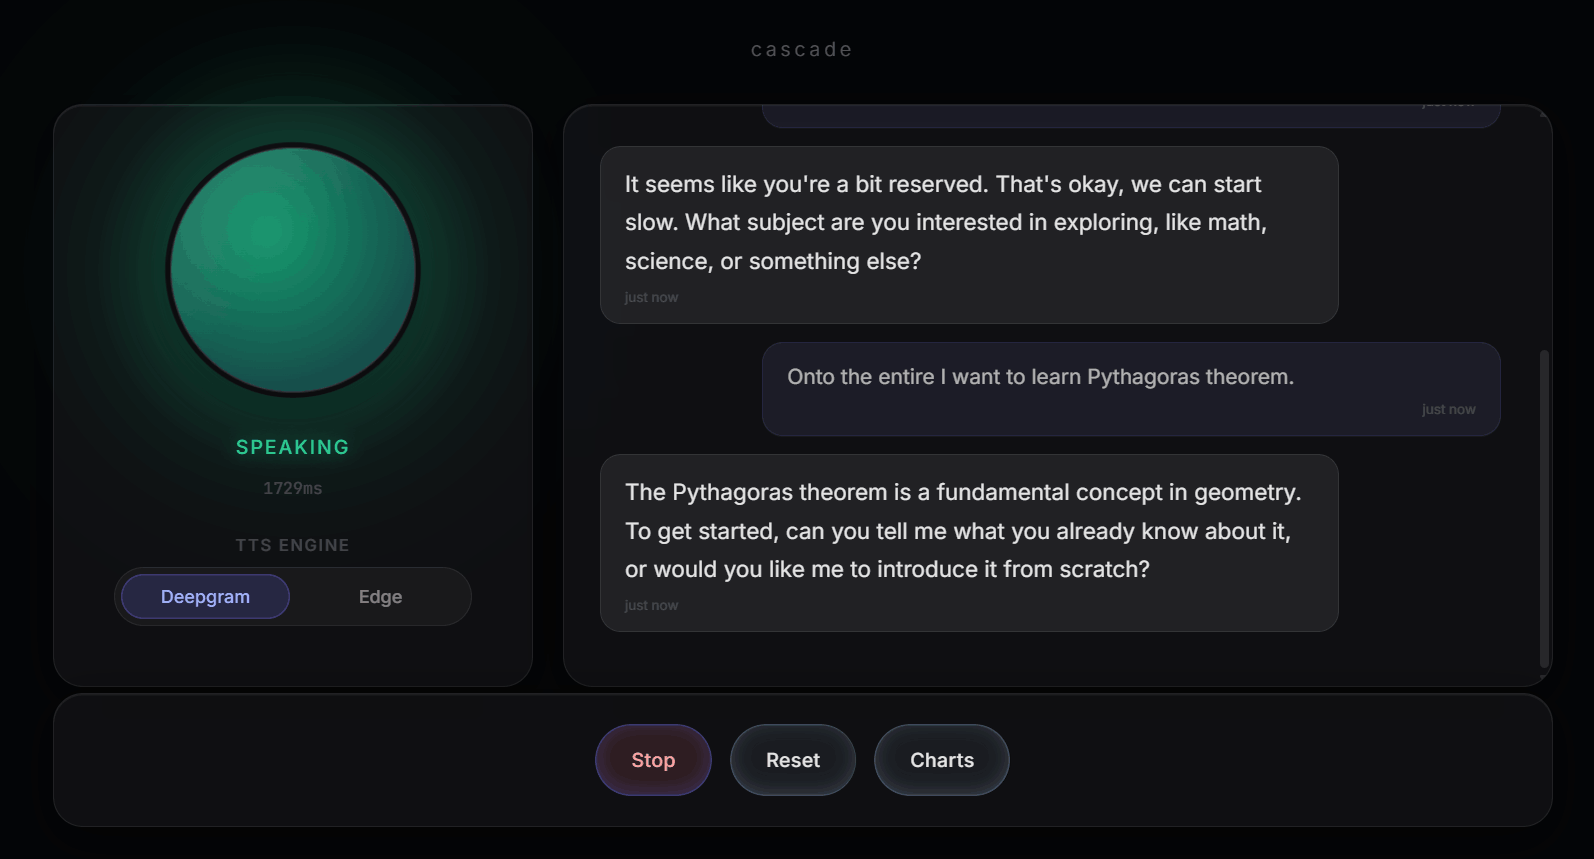
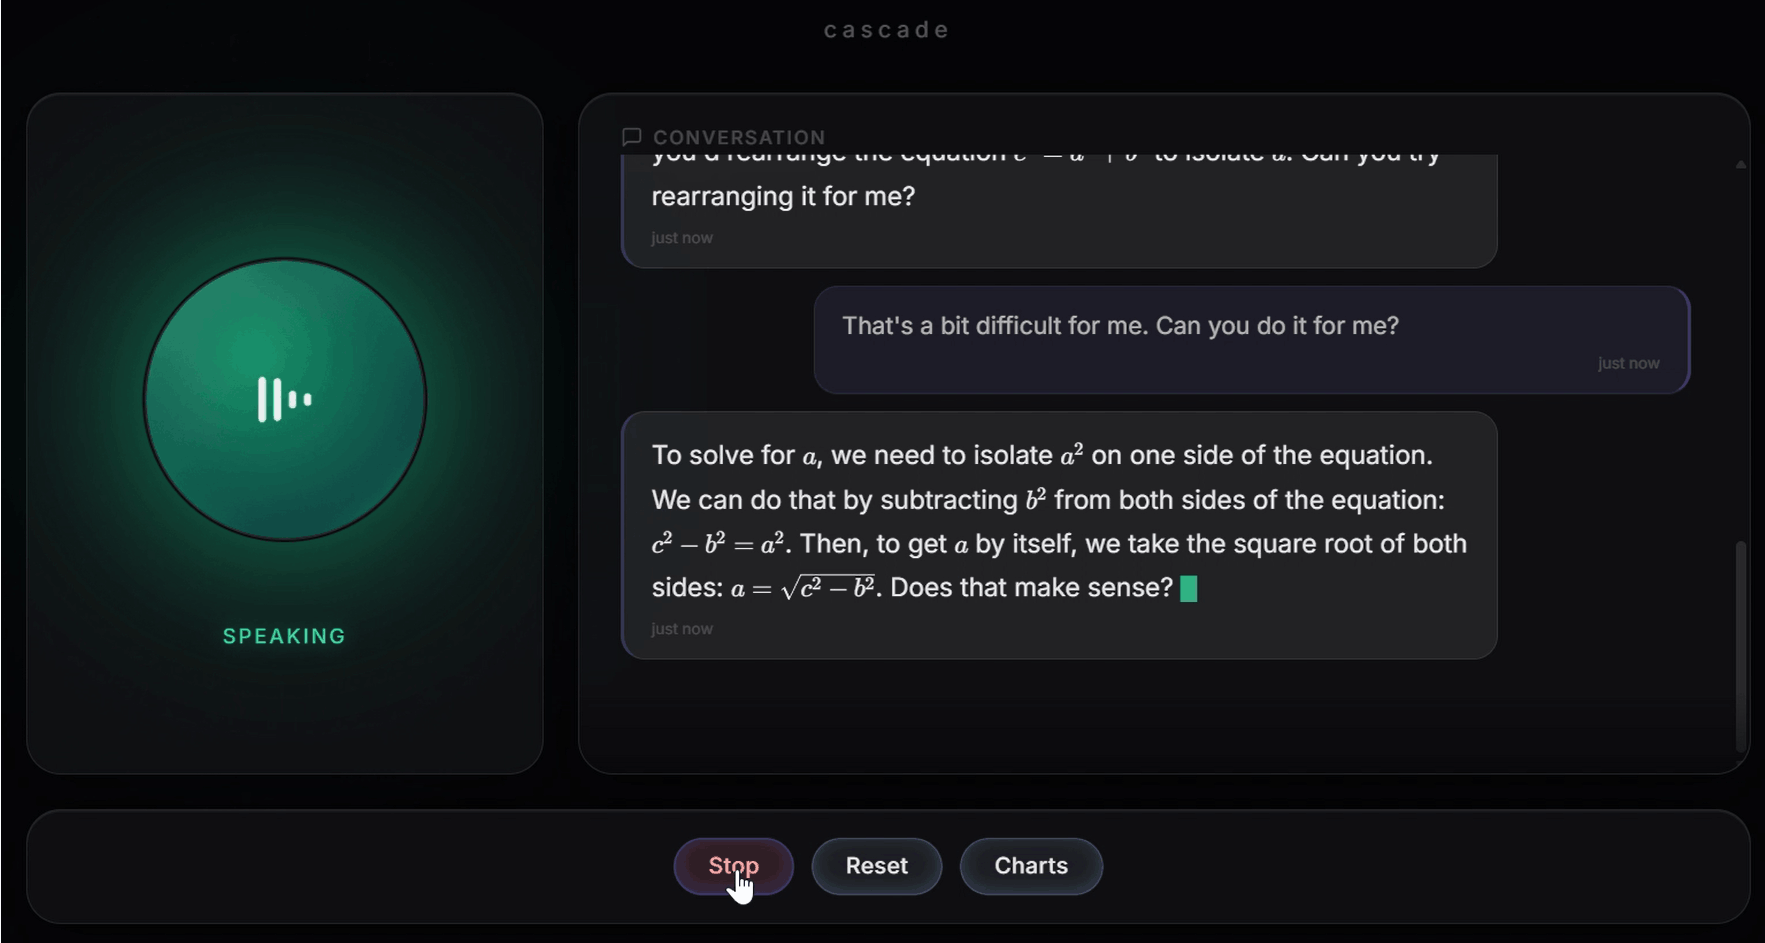
refactor(stt,frontend): optimize transcript stability and eliminate DOM thrashing
STT Backend:
- Refactor _compute_display_text() to track stability via Deepgram's raw 'words' array
- Match unpunctuated, lowercase strings for the prefix lock to prevent aggressive
  punctuation adjustments from shrinking the stable text segment

Frontend UI/UX:
- Replace full DOM bubble rewrites with persistent '.stable-text' and '.tentative' spans
- Update textContent directly on interim ticks to prevent unnecessary layout recalculations
- Add CSS transition properties to soften text state changes and mitigate visual flicker

diff --git a/frontend/app.js b/frontend/app.js
@@ -285,25 +285,35 @@ class CascadeClient {
   }
 
   _updateStudentTranscript(stableText, tentativeText = "", { final = false } = {}) {
-    let htmlContent = stableText;
-    if (tentativeText) {
-      htmlContent += (htmlContent ? " " : "") + `<span class="tentative">${tentativeText}</span>`;
-    }
-
     if (!this.currentStudentBubble) {
       this.currentStudentBubble = this.ui.addTranscriptItem("student", "");
-      const p = this.currentStudentBubble.querySelector("p");
-      if (p) p.innerHTML = htmlContent;
-      if (!final && this.currentStudentBubble)
-        this.currentStudentBubble.classList.add("streaming");
-    } else {
-      const p = this.currentStudentBubble.querySelector("p");
-      if (p) p.innerHTML = htmlContent;
-      if (final) {
-        this.currentStudentBubble.classList.remove("streaming");
-      } else {
-        this.currentStudentBubble.classList.add("streaming");
+    }
+    
+    const p = this.currentStudentBubble.querySelector("p");
+    if (p) {
+      let stableNode = p.querySelector(".stable-text");
+      let tentativeNode = p.querySelector(".tentative");
+
+      if (!stableNode) {
+        p.innerHTML = '<span class="stable-text"></span><span class="tentative"></span>';
+        stableNode = p.querySelector(".stable-text");
+        tentativeNode = p.querySelector(".tentative");
       }
+
+      if (stableNode.textContent !== stableText) {
+        stableNode.textContent = stableText;
+      }
+
+      const tentativeWithSpace = tentativeText ? (stableText ? " " : "") + tentativeText : "";
+      if (tentativeNode.textContent !== tentativeWithSpace) {
+        tentativeNode.textContent = tentativeWithSpace;
+      }
+    }
+
+    if (final && this.currentStudentBubble) {
+      this.currentStudentBubble.classList.remove("streaming");
+    } else if (this.currentStudentBubble) {
+      this.currentStudentBubble.classList.add("streaming");
     }
   }
 

diff --git a/frontend/style.css b/frontend/style.css
@@ -1081,6 +1081,7 @@ body {
 .message-user .tentative {
   color: rgba(255, 255, 255, 0.4);
   font-style: italic;
+  transition: color 0.15s ease, opacity 0.15s ease;
 }
 
 .message-user.streaming p::after {

diff --git a/backend/stt.py b/backend/stt.py
@@ -278,26 +278,38 @@ class STTHandler:
         except Exception as e:
             logger.debug(f"[STT] KeepAlive task error: {e}")
 
-    def _compute_display_text(self, transcript: str) -> tuple[str, str]:
-        words = transcript.split()
-        if not words:
+    def _compute_display_text(self, words_data: list[dict] | str) -> tuple[str, str]:
+        """Compute stable vs tentative text using word-level confidence and punctuation invariance."""
+        if isinstance(words_data, str):
+            words_data = [{"word": w, "punctuated_word": w} for w in words_data.split()]
+            
+        if not words_data:
             return "", ""
+            
+        current_base_words = [w.get("word", "").lower() for w in words_data]
         
         if not self._last_interim_words:
-            self._last_interim_words = words
-            return " ".join(words[:-1]), words[-1]
+            self._last_interim_words = current_base_words
+            stable_parts = [w.get("punctuated_word", w.get("word", "")) for w in words_data[:-1]]
+            tentative_parts = [words_data[-1].get("punctuated_word", words_data[-1].get("word", ""))]
+            return " ".join(stable_parts), " ".join(tentative_parts)
             
-        stable_words = []
-        for i, word in enumerate(words):
-            if i < len(self._last_interim_words) and word == self._last_interim_words[i]:
-                stable_words.append(word)
+        common = 0
+        for a, b in zip(self._last_interim_words, current_base_words):
+            if a == b:
+                common += 1
             else:
                 break
                 
-        self._last_interim_words = words
-        stable_part = " ".join(stable_words)
-        tentative_part = " ".join(words[len(stable_words):])
-        return stable_part, tentative_part
+        self._last_interim_words = current_base_words
+        
+        # Always hold back the very last word unless it's the only word
+        stable_len = min(common, len(words_data) - 1) if len(words_data) > 1 else common
+        
+        stable_parts = [w.get("punctuated_word", w.get("word", "")) for w in words_data[:stable_len]]
+        tentative_parts = [w.get("punctuated_word", w.get("word", "")) for w in words_data[stable_len:]]
+        
+        return " ".join(stable_parts), " ".join(tentative_parts)
 
     async def _handle_message(self, data: dict):
         """Handle a message from Deepgram."""
@@ -324,7 +336,12 @@ class STTHandler:
 
                         # Stream live interim words to the UI
                         if self.on_transcript_update and not is_final:
-                            stable, tentative = self._compute_display_text(transcript)
+                            words_data = alt.get("words", [])
+                            # Fallback to string split if Deepgram didn't send words[]
+                            if not words_data and transcript:
+                                words_data = [{"word": w, "punctuated_word": w} for w in transcript.split()]
+                                
+                            stable, tentative = self._compute_display_text(words_data)
                             live_stable = (self.transcript_buffer + " " + stable).strip()
                             if live_stable or tentative:
                                 self.on_transcript_update(live_stable, tentative)